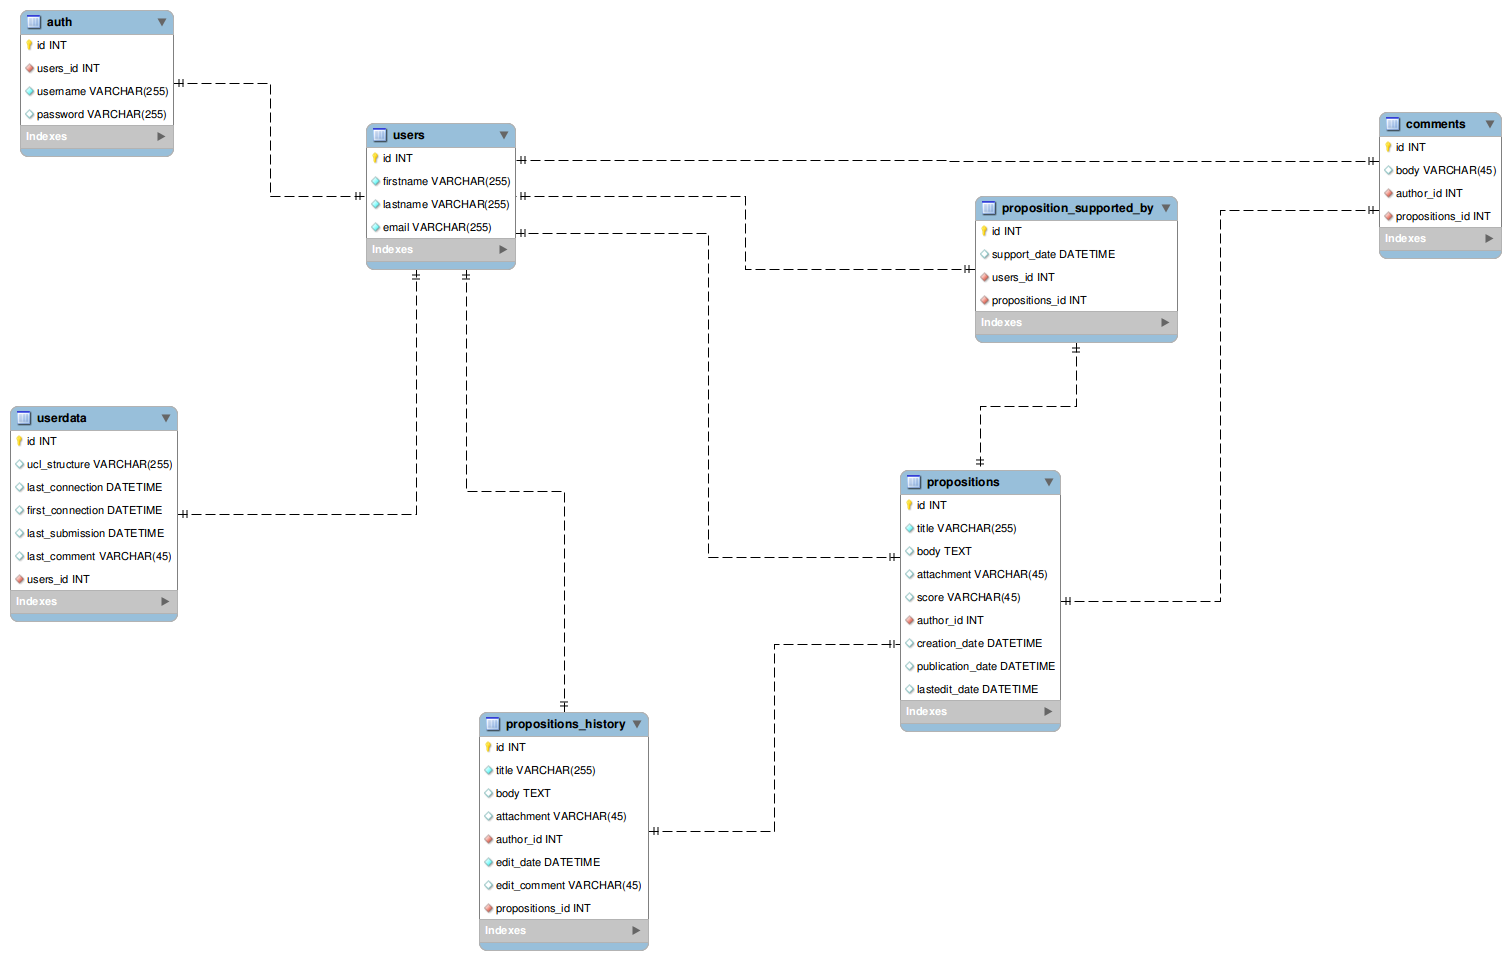
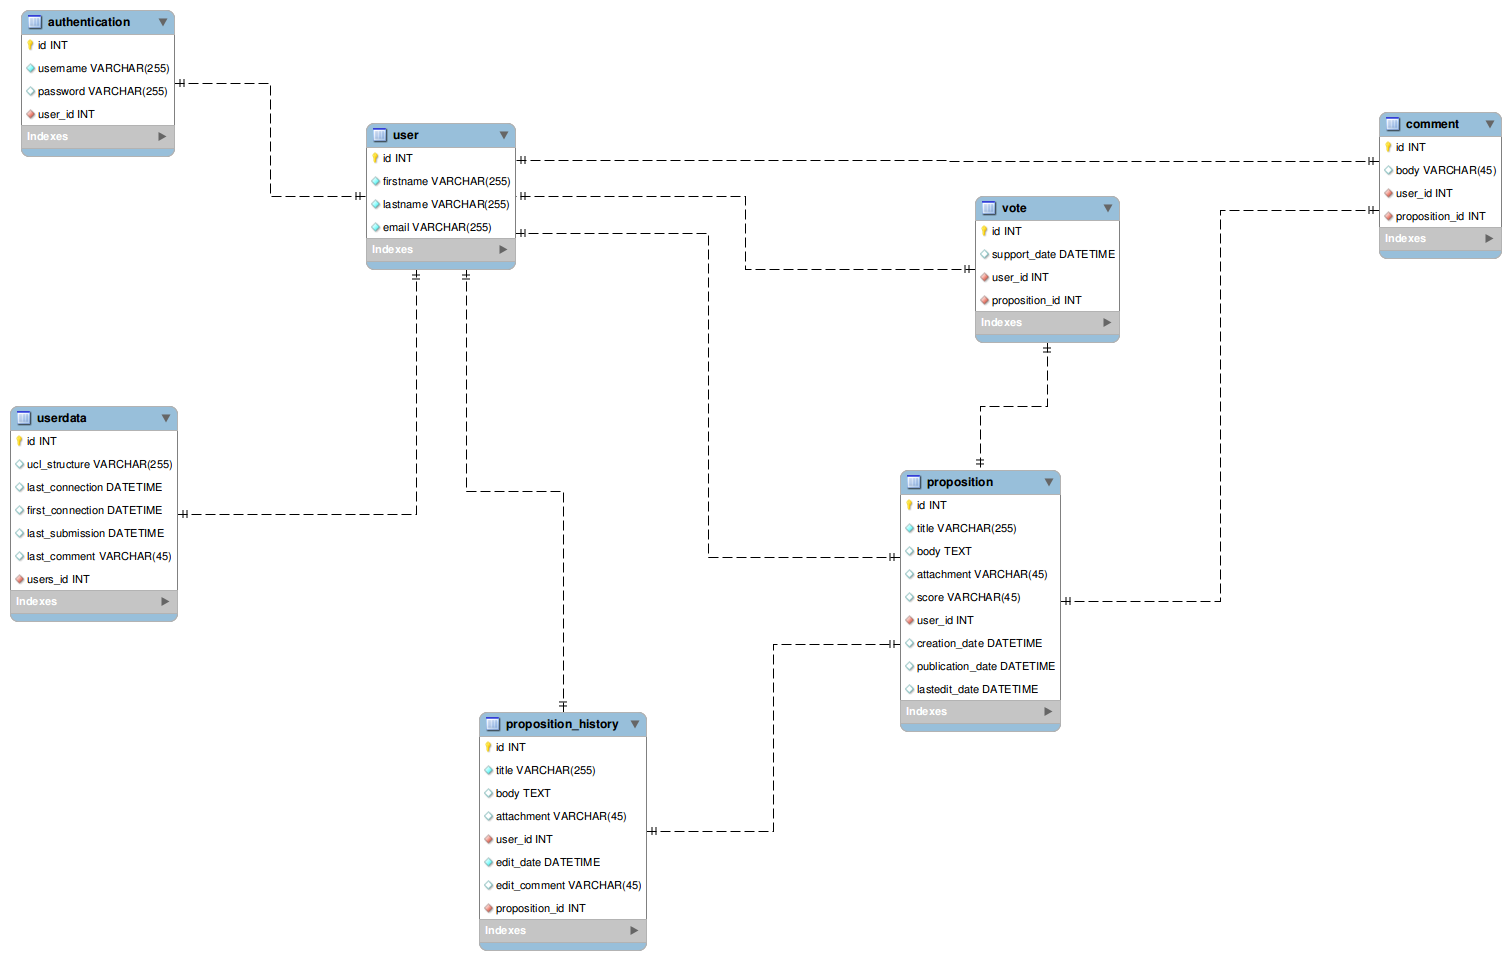
add sql install script and update database design

diff --git a/app/init.php b/app/init.php
@@ -4,6 +4,8 @@ require_once __DIR__ . '/../vendor/autoload.php';
 
 $_CONFIG = $_GLOBALS['_CONFIG'] = json_decode(file_get_contents(__DIR__.'/config.json'));
 
+// init database
+
 ORM::configure(array(
     'connection_string' => $_CONFIG->database->connection_string,
     'username' => $_CONFIG->database->username,

diff --git a/README.md b/README.md
@@ -9,11 +9,19 @@ Web application to submit and vote for feature requests.
 
 * PHP 5.3+, PDO and Mysql driver for PDO
 * [Composer](http://getcomposer.org)
+* MySQL 5+ (or MariaDB) with InnoDB support
 
 ## Install
 
-* To install, run composer install from the fixmyapp folder
+There is no install script yet...
+
+To install FixMyApp :
+
+* Run 'composer install' from the fixmyapp folder
 * Create the following folder : cache/templates and give php the right to write in it
+* Execute the install.sql script in your favorite mysql administration tool
+* Create a database user for the database and GRANT ALL PRIVILEGES on the fixmyapp tables
+* Edit the database configuration in app/config.json
 
 ## Proposition worflow
 
